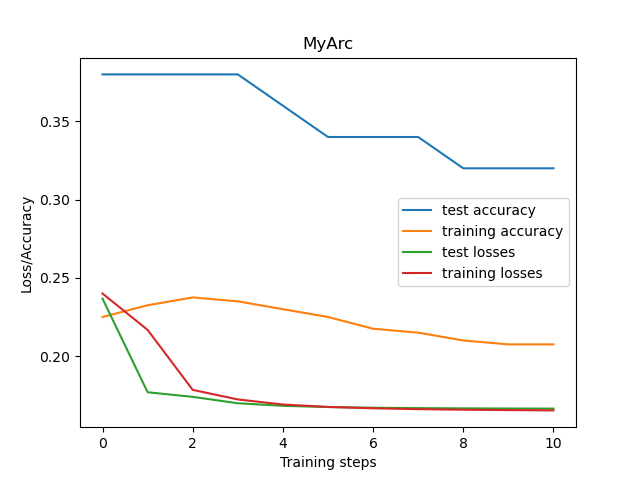
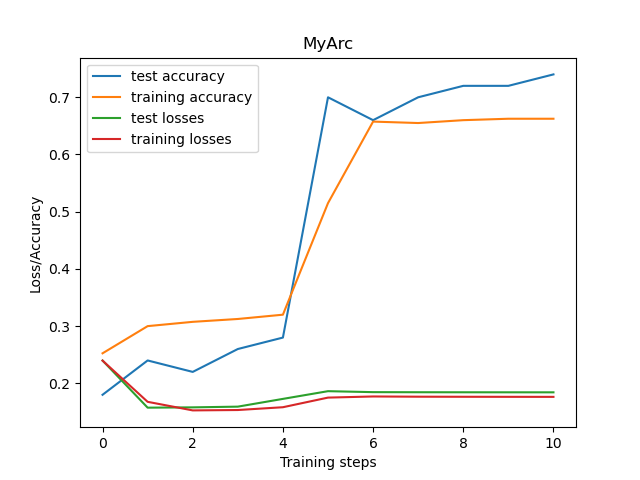
issue was using delta *=mu instead of delta = delta* mu
weird pointer value adress copying stuff going on in python

diff --git a/neurofuzzy_pkg/fuzzyLayers/RuleAntecedentLayer.py b/neurofuzzy_pkg/fuzzyLayers/RuleAntecedentLayer.py
@@ -93,8 +93,8 @@ class RuleAntecedentLayer():
         self.inputs = x #  need meshgrid for training
 
 
-        x = (x[0] * x[1]).ravel()
-       # x = np.prod(x, axis=0).ravel()
+      #  x = (x[0] * x[1]).ravel()
+        x = np.prod(x, axis=0).ravel()
   
 
         assert self.n_rules == x.size, f'the number of rules generated: {x.size} has to equal: {self.n_rules} -> coefficient(inputs * n_mfs, participants) - inputs * n_mfs' 

diff --git a/neurofuzzy_pkg/utils/MyArcTrainer.py b/neurofuzzy_pkg/utils/MyArcTrainer.py
@@ -241,7 +241,7 @@ class MyArcTrainer(Trainer):
             for j, mu in enumerate(mus):
                 if i==j:
                     continue
-                delta *= mu
+                delta = delta* mu
             deltas.append(delta)
        # delta = [mu * error for mu in mus]
         #delta.reverse() # the other mu for each 
